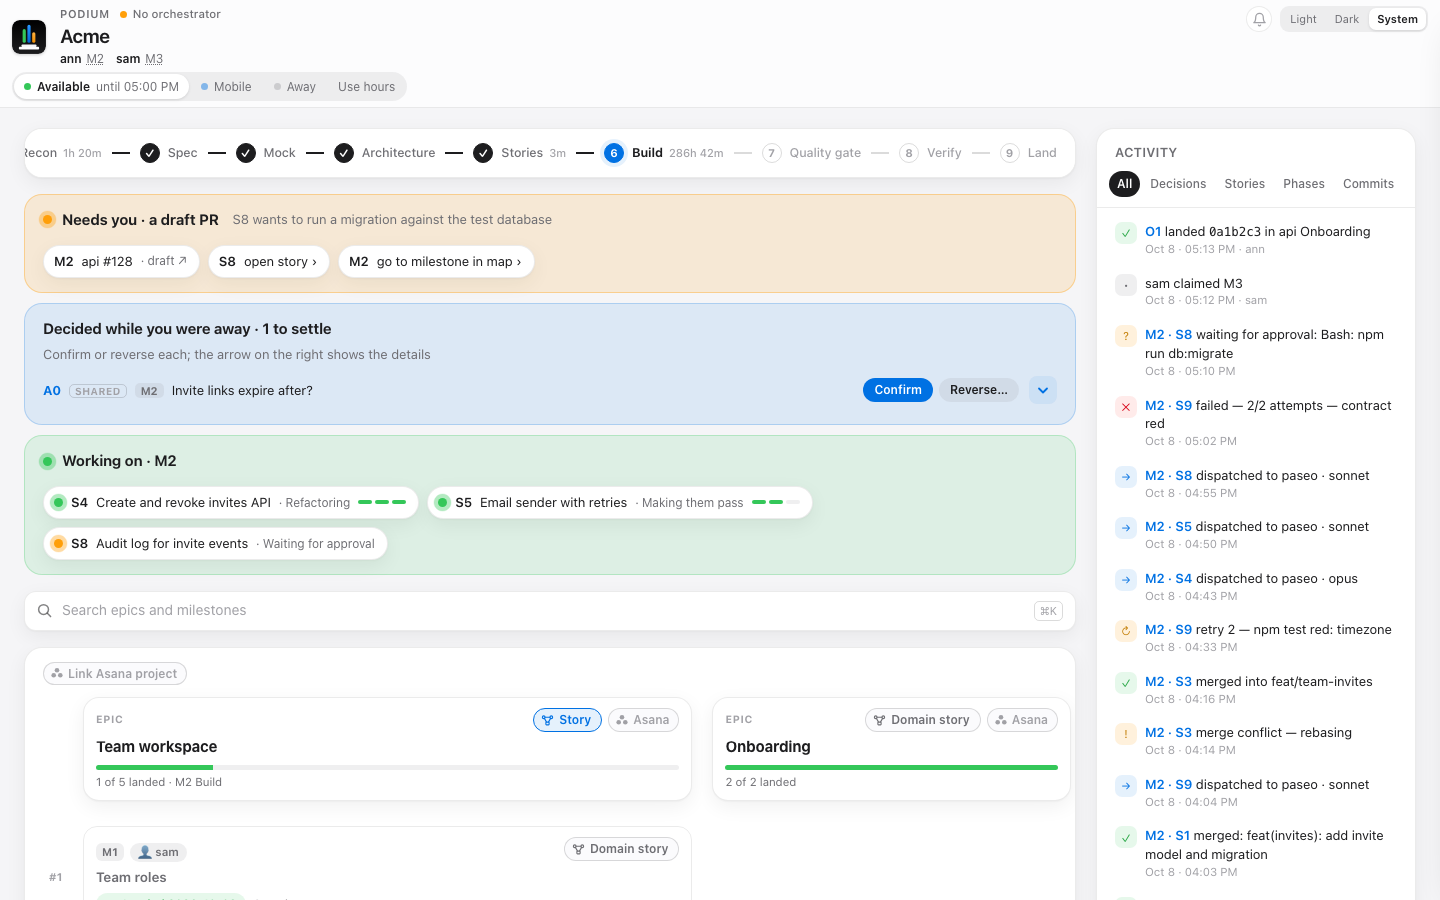
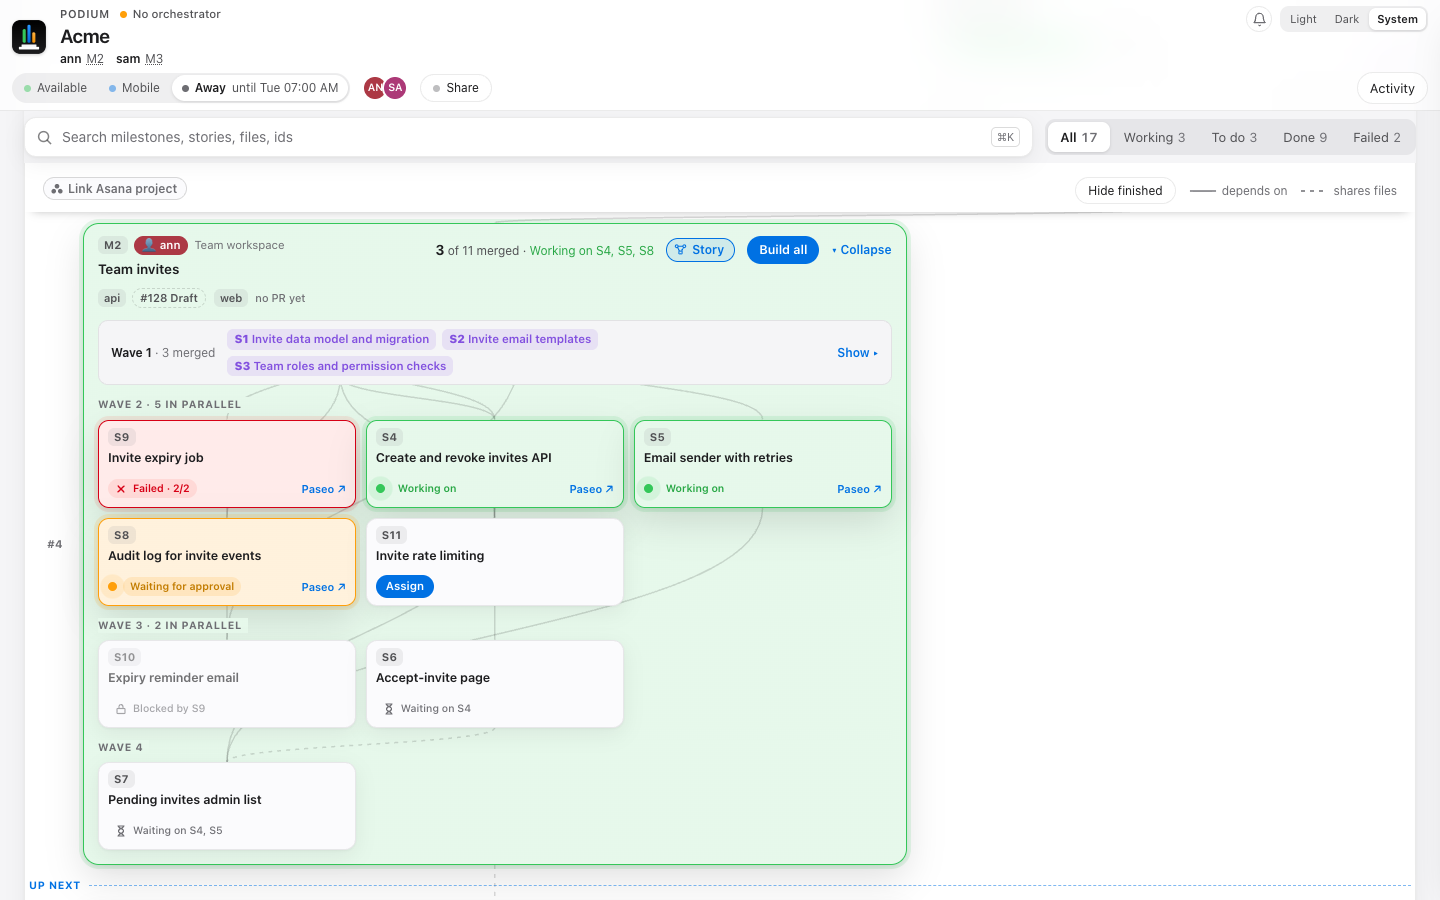
podium page: an open milestone draws its stories as a tree, with lines behind the cards and merged waves folded
Leading waves that are all merged fold into one line of chips; Show unfolds them in place. Dependency lines are solid, shared-file lines dashed, and lines from a folded story start at its chip.

diff --git a/podium_dashboard/podium.html b/podium_dashboard/podium.html
@@ -322,6 +322,25 @@ a.wchip { color: inherit; text-decoration: none; }
 .mwave { display: flex; flex-direction: column; gap: 7px; }
 .mwl { font-size: 10.5px; font-weight: 700; letter-spacing: .06em; text-transform: uppercase; color: var(--text-3); }
 .mrow { display: grid; grid-template-columns: repeat(3, minmax(0, 1fr)); gap: 10px; }
+.mtree { position: relative; display: flex; flex-direction: column; gap: 12px; background: inherit; }
+.mtree > svg.links { position: absolute; inset: 0; z-index: 0; pointer-events: none; overflow: visible; }
+.mtree .mwave { background: inherit; }
+.mtree .mwl { position: relative; z-index: 1; align-self: flex-start; padding-right: 6px; background: inherit; }
+.mtree .node { z-index: 1; }
+.mtree .node.dim, .mtree .node.blocked, .mtree .node.dropped { opacity: 1; }
+.mtree .node.blocked > * { opacity: .62; }
+.mtree .node.dropped > * { opacity: .45; }
+.mtree .node.dim { background: var(--card-2); border-color: var(--line); box-shadow: none; }
+.mtree .node.dim > * { opacity: .28; }
+.mtree.focus .edge:not(.hi) { opacity: .35; }
+.mfold { position: relative; z-index: 1; display: flex; align-items: center; gap: 8px 12px; flex-wrap: wrap; padding: 8px 12px; border: 1px solid var(--line); border-radius: 10px; background: var(--bg); }
+.mfl { font-size: 12px; color: var(--text-3); }
+.mfl b { color: var(--text); font-weight: 650; }
+.fchips { display: flex; flex-wrap: wrap; gap: 6px; flex: 1 1 0; min-width: 0; }
+.fchip { max-width: 100%; overflow: hidden; text-overflow: ellipsis; white-space: nowrap; padding: 2px 7px; border-radius: 6px; background: var(--purple-soft); color: var(--purple); font-size: 11.5px; font-weight: 600; cursor: pointer; }
+.fchip.sel { box-shadow: 0 0 0 2px var(--accent); }
+.fchip.dim { opacity: .28; }
+.mrefold { display: flex; justify-content: flex-end; }
 .node.compact { position: relative; min-height: 88px; padding: 7px 9px; gap: 4px; border-radius: 11px; }
 .node.compact .title { font-size: 12.5px; }
 .node.compact .foot { min-height: 22px; gap: 4px 6px; font-size: 11px; flex-wrap: wrap; }
@@ -750,7 +769,7 @@ let lastPoll = 0;
 
 /* a map keyed by the run's strings: no prototype, so an id like `constructor` or `__proto__` finds nothing it didn't put there */
 const dict = (entries = []) => Object.setPrototypeOf(Object.fromEntries(entries), null);
-const S = { base: "podium/", handoffs: dict(), human: null, info: null, project: null, epic: null, raw: "", events: [], eventsRaw: "", progress: dict(), briefs: dict(), sel: null, doc: null, back: [], open: undefined, query: "", filter: "all", online: true };
+const S = { base: "podium/", handoffs: dict(), human: null, info: null, project: null, epic: null, raw: "", events: [], eventsRaw: "", progress: dict(), briefs: dict(), sel: null, doc: null, back: [], open: undefined, unfold: dict(), query: "", filter: "all", online: true };
 const $ = (id) => document.getElementById(id);
 function setTheme(t) {
   if (t === "system") document.documentElement.removeAttribute("data-theme");
@@ -1128,9 +1147,58 @@ function openHead(m) {
   return `<div class="ohead"><span class="fid"><span class="fidrow"><span class="sid">${esc(m.id)}</span>${infraTag(m)}${ownerOrClaim(m)}<span class="oepic">${esc(E?.title || "")}</span></span><span class="title otitle" data-open="${esc(m.id)}" tabindex="0">${esc(m.title)}</span>${msCardRepos(m)}</span><span class="oside">${stat}<span class="ftools">${mockBtn(m)}${dsBtn(m)}${asanaBtn(m, true)}</span>${build}<button class="ocollapse" data-collapse>▾ Collapse</button></span></div>`;
 }
 const hidesStory = (m, s) => S.hideFinished && ["done", "dropped"].includes(s.status) && !isSel(m.id, s.id) && !(S.project.needsYou && needsMs() === m.id && String(S.project.needsYou.story || "").split("/").pop() === String(s.id));
+function treeRows(m) {
+  const rows = wavesOf(m.stories || []), col = dict();
+  rows.forEach((row, i) => {
+    if (i) {
+      const bary = (s) => {
+        const ups = [...(s.deps || []), ...(s.overlapAfter || [])].filter((d) => col[d] !== undefined);
+        return ups.length ? ups.reduce((a, d) => a + col[d], 0) / ups.length : 0;
+      };
+      row.sort((a, b) => bary(a) - bary(b) || String(a.id).localeCompare(String(b.id), undefined, { numeric: true }));
+    }
+    row.forEach((s, j) => (col[s.id] = j % 3));
+  });
+  return rows;
+}
+const foldWaves = (rows) => ((n) => (n < 0 ? rows.length : n))(rows.findIndex(([, w]) => w.some((s) => s.status !== "done")));
+function treeView(m) {
+  const rows = treeRows(m).map((w, i) => [i, w.filter((s) => !hidesStory(m, s))]).filter(([, w]) => w.length);
+  const n = S.hideFinished ? 0 : foldWaves(rows), folded = n > 0 && !S.unfold[m.id];
+  return { rows, n, folded, shown: dict(rows.flatMap(([, w], k) => w.map((s) => [s.id, folded && k < n]))) };
+}
+function treeEdges(m, shown) {
+  const seen = new Set(), out = [];
+  for (const s of m.stories || []) {
+    if (!Object.hasOwn(shown, s.id)) continue;
+    const link = (ids, kind) => (Array.isArray(ids) ? ids : []).forEach((d) => {
+      const k = JSON.stringify([d, s.id]);
+      if (d === s.id || !Object.hasOwn(shown, d) || (shown[d] && shown[s.id]) || seen.has(k)) return;
+      seen.add(k);
+      out.push({ from: d, to: s.id, kind, fromFold: shown[d] });
+    });
+    link(s.deps, "dep");
+    link(s.overlapAfter, "overlap");
+  }
+  return out;
+}
+function msTree(m, map) {
+  const { rows, n, folded } = treeView(m), id = esc(m.id), merged = rows.slice(0, n).flatMap(([, w]) => w);
+  const wave = ([i, w]) => `<div class="mwave"><span class="mwl">Wave ${i + 1}${w.length > 1 ? ` · ${w.length} in parallel` : ""}</span><div class="mrow">${w.map((s) => storyCard(m, s, map)).join("")}</div></div>`;
+  const chip = (s) => `<span class="fchip${isSel(m.id, s.id) ? " sel" : ""}" data-open="${id}" data-story="${esc(s.id)}" tabindex="0"><b>${esc(s.id)}</b> ${esc(s.title)}</span>`;
+  const fold = !n ? "" : folded
+    ? `<div class="mfold"><span class="mfl"><b>${n > 1 ? `Waves 1–${n}` : "Wave 1"}</b> · ${merged.length} merged</span><span class="fchips">${merged.map(chip).join("")}</span><button class="ocollapse" data-unfold="${id}">Show ▸</button></div>`
+    : `<div class="mrefold"><button class="ocollapse" data-unfold="${id}">Fold merged waves ▴</button></div>`;
+  return `<div class="mtree" data-ms="${id}">${fold}${(folded ? rows.slice(n) : rows).map(wave).join("")}</div>`;
+}
+function toggleFold(id) {
+  if (S.unfold[id]) delete S.unfold[id];
+  else S.unfold[id] = true;
+  render();
+}
 function msBody(m, foot) {
   const stories = m.stories || [], arts = m.artifacts || [], map = storyIndex(m);
-  if (stories.length) return wavesOf(stories).map((w, i) => [i, w.filter((s) => !hidesStory(m, s))]).filter(([, w]) => w.length).map(([i, w]) => `<div class="mwave"><span class="mwl">Wave ${i + 1}${w.length > 1 ? ` · ${w.length} in parallel` : ""}</span><div class="mrow">${w.map((s) => storyCard(m, s, map)).join("")}</div></div>`).join("");
+  if (stories.length) return msTree(m, map);
   if (arts.length) return `<div class="mrow">${arts.map((a, i) => `<div class="node compact artifact" data-open="${esc(m.id)}" data-story="A${i + 1}" tabindex="0"><div class="top"><span class="sid">${esc(a.phase || "doc")}</span></div><span class="title">${esc(a.name)}</span></div>`).join("")}</div>`;
   return `<div class="foot">${foot}${waitPills(m)}</div>`;
 }
@@ -1185,9 +1253,10 @@ function renderFull() {
   const rows = order.map((x, i) => hides(x) ? "" : `${i === next && i > 0 ? `<div class="fnext">Up next</div>` : ""}<div class="ford">#${i + 1}</div>${P.epics.map((E, c) => (c === lane[x.id] ? fullMs(x, all) : "<div></div>")).join("")}`).join("");
   const min = 34 + P.epics.reduce((n, E) => n + (E.id === P.active?.epic ? 300 : 200) + 20, 0);
   m.innerHTML = `<div class="full" style="grid-template-columns:${cols};min-width:${min}px">${head}${drow}${rrow}${rows}</div>`;
-  requestAnimationFrame(drawQueue);
+  requestAnimationFrame(drawLines);
   applyFilter();
 }
+function drawLines() { drawQueue(); drawTree(); }
 function drawQueue() {
   const g = document.querySelector("#map .full");
   if (!g) return;
@@ -1197,6 +1266,18 @@ function drawQueue() {
   const paths = cards.slice(1).map((c, i) => `<path class="edge ${c.matches(".done, .working, .waits") ? "" : "overlap"}" d="${curve(box(cards[i]), box(c))}"/>`).join("");
   g.querySelector("svg.edges")?.remove();
   g.insertAdjacentHTML("afterbegin", `<svg class="edges" width="${g.scrollWidth}" height="${g.scrollHeight}">${paths}</svg>`);
+}
+function drawTree() {
+  const t = document.querySelector("#map .mtree"), m = t && msOf(t.dataset.ms);
+  if (!m) return;
+  const tr = t.getBoundingClientRect(), at = dict([...t.querySelectorAll("[data-story]")].map((el) => [el.dataset.story, el]));
+  const box = (el) => { const r = el.getBoundingClientRect(); return { x: r.left - tr.left, y: r.top - tr.top, w: r.width, h: r.height }; };
+  const hi = (e) => isSel(m.id, e.from) || isSel(m.id, e.to);
+  const edges = treeEdges(m, treeView(m).shown).filter((e) => at[e.from] && at[e.to]);
+  const paths = edges.map((e) => `<path class="edge${e.kind === "overlap" ? " overlap" : ""}${hi(e) ? " hi" : ""}" d="${curve(box(at[e.from]), box(at[e.to]))}"/>`).join("");
+  t.classList.toggle("focus", edges.some(hi));
+  t.querySelector("svg.links")?.remove();
+  t.insertAdjacentHTML("afterbegin", `<svg class="links" width="${t.scrollWidth}" height="${t.scrollHeight}">${paths}</svg>`);
 }
 
 function day(v) {
@@ -2395,6 +2476,8 @@ document.addEventListener("click", (ev) => {
   const rv = ev.target.closest("[data-reveal]");
   if (rv) { reveal(rv.dataset.reveal); return; }
   if (ev.target.closest("[data-collapse]")) { collapse(); return; }
+  const uf = ev.target.closest("[data-unfold]");
+  if (uf) { toggleFold(uf.dataset.unfold); return; }
   const xm = ev.target.closest("[data-expand-ms]");
   if (xm) { expand(xm.dataset.expandMs); return; }
   if (ev.target.closest("[data-back]")) return sheetBack();
@@ -2409,7 +2492,7 @@ document.addEventListener("click", (ev) => {
 document.addEventListener("keydown", (ev) => {
   if ((ev.metaKey || ev.ctrlKey) && ev.key.toLowerCase() === "k") { ev.preventDefault(); $("q").focus(); $("q").select(); }
   else if (ev.key === "Escape") onEscape();
-  else if (ev.key === "Enter" && ev.target.matches(".node, .fms, .otitle, .fepic, .quest")) ev.target.click();
+  else if (ev.key === "Enter" && ev.target.matches(".node, .fchip, .fms, .otitle, .fepic, .quest")) ev.target.click();
 });
 function onEscape() {
   if (S.sel) closeSheet();
@@ -2479,7 +2562,7 @@ function trackStickyBar() {
   }
 }
 trackStickyBar();
-window.addEventListener("resize", () => { if (S.project) drawQueue(); });
+window.addEventListener("resize", () => { if (S.project) drawLines(); });
 $("quality").addEventListener("toggle", () => (S.qualityTouched = true), { once: true });
 
 setFavicon("");

diff --git a/tests/test_page.py b/tests/test_page.py
@@ -110,6 +110,20 @@ FINISHED_RUN = {
         {"id": "M2", "title": "second", "status": "working", "phase": "build", "deps": ["M1"],
          "stories": [{"id": "S1", "title": "a", "status": "done"}, {"id": "S2", "title": "b", "status": "done", "deps": ["S1"]},
                      {"id": "S3", "title": "c", "status": "todo", "deps": ["S2"]}]}]}]}
+TREE_RUN = {
+    "project": {"title": "T", "quest": {"doc": "q.md"}}, "orchestrator": {"name": "o", "command": "/o"}, "active": {"epic": "e1", "milestone": "M1"},
+    "epics": [{"id": "e1", "title": "E", "milestones": [
+        {"id": "M1", "title": "tree", "status": "working", "phase": "build", "stories": [
+            {"id": "S1", "title": "a", "status": "done"}, {"id": "S2", "title": "b", "status": "todo"},
+            {"id": "S3", "title": "c", "status": "todo", "deps": ["S2", "S2"]},
+            {"id": "S4", "title": "d", "status": "todo", "deps": ["S1"], "overlapAfter": ["S3"]},
+            {"id": "S5", "title": "e", "status": "todo", "deps": ["S6", "S9"]}, {"id": "S6", "title": "f", "status": "todo", "deps": ["S5"]},
+            {"id": "__proto__", "title": "p", "status": "todo", "deps": ["constructor", "S2", "__proto__"], "overlapAfter": ["S2"]}]},
+        {"id": "M2", "title": "order", "status": "todo", "stories": [
+            {"id": "A1", "title": "a", "status": "todo"}, {"id": "A2", "title": "b", "status": "todo"}, {"id": "A3", "title": "c", "status": "todo"},
+            {"id": "B1", "title": "d", "status": "todo", "deps": ["A3"]}, {"id": "B2", "title": "e", "status": "todo", "deps": ["A1"]},
+            {"id": "B3", "title": "f", "status": "todo", "deps": ["A2"]},
+            {"id": "C1", "title": "g", "status": "todo", "deps": ["B1"]}, {"id": "C2", "title": "h", "status": "todo", "deps": ["B2"]}]}]}]}
 TWIN_RUN = {
     "project": {"title": "T", "quest": {"doc": "q.md"}}, "orchestrator": {"name": "o", "command": "/o"}, "active": {"epic": "e1", "milestone": "M1"},
     "epics": [{"id": "e1", "title": "E", "milestones": [
@@ -902,6 +916,82 @@ class HostileRun(unittest.TestCase):
         self.assertRegex(open(PAGE).read(), r"\.mrow \{[^}]*grid-template-columns: repeat\(3, minmax\(0, 1fr\)\)")
         sheet = next(h for h in self.html if "<dt>Model</dt>" in h and "opus-model" in h)
         self.assertIn('<dt>Step</dt><dd class="doing">Making them pass', sheet)
+
+    @staticmethod
+    def tree_text(card):
+        """The open card's wave labels, fold line, chips and fold controls as text, and the story ids shown as cards and as chips."""
+        parts = re.findall(r'<span class="(?:mwl|mfl)">(.*?)</span>|<span class="fchip[^"]*"[^>]*>(.*?)</span>|<button class="ocollapse" data-unfold[^>]*>([^<]*)</button>', card)
+        lines = [re.sub(r"<[^>]+>", "", "".join(p)) for p in parts]
+        cards = re.findall(r'<div class="node compact [^"]*" data-open="M2" data-story="([^"]*)"', card)
+        chips = re.findall(r'<span class="fchip[^"]*" data-open="M2" data-story="([^"]*)"', card)
+        return lines, cards, chips
+
+    def test_merged_leading_waves_fold_into_one_line_of_chips_and_the_wave_count_goes_on(self):
+        maps, _ = self.maps(FINISHED_RUN)
+        lines, cards, chips = self.tree_text(self.open_card(maps[0]))
+        self.assertEqual(lines, ["Waves 1–2 · 2 merged", "S1 a", "S2 b", "Show ▸", "Wave 3"])
+        self.assertEqual(cards, ["S3"])
+        self.assertEqual(chips, ["S1", "S2"])
+        self.assertIn('<button class="ocollapse" data-unfold="M2">Show ▸</button>', self.open_card(maps[0]))
+
+    def test_show_unfolds_the_merged_waves_as_cards_in_place_and_fold_merged_waves_folds_them_back(self):
+        maps, _ = self.maps(FINISHED_RUN, probe='(() => { expand("M2"); const out = [S.unfold.M2 === true]; toggleFold("M2"); out.push(S.unfold.M2 === true); return out; })()')
+        self.assertEqual(self.probe(), [False, True])
+        lines, cards, chips = self.tree_text(self.open_card(maps[-1]))
+        self.assertEqual(lines, ["Fold merged waves ▴", "Wave 1", "Wave 2", "Wave 3"])
+        self.assertEqual((cards, chips), (["S1", "S2", "S3"], []))
+        maps, _ = self.maps(FINISHED_RUN, probe='(expand("M2"), toggleFold("M2"), toggleFold("M2"), Object.keys(S.unfold))')
+        self.assertEqual(self.probe(), [])
+        self.assertEqual(self.tree_text(self.open_card(maps[-1]))[2], ["S1", "S2"])
+
+    def test_a_fold_chip_opens_its_story_sheet(self):
+        maps, _ = self.maps(FINISHED_RUN, probe='(openSheet({ ms: "M2", story: "S1" }), S.sel)')
+        self.assertEqual(self.probe(), {"ms": "M2", "story": "S1"})
+        self.assertRegex(self.open_card(maps[-1]), r'<span class="fchip sel" data-open="M2" data-story="S1" tabindex="0"><b>S1</b> a</span>')
+        self.assertIn(".fchip", re.search(r'ev\.target\.matches\("([^"]*)"\)\) ev\.target\.click', open(PAGE).read()).group(1))
+
+    def test_with_hide_finished_on_merged_waves_are_hidden_with_no_fold_line(self):
+        maps, _ = self.maps(FINISHED_RUN, localStorage={"podium-hide-finished": "1"})
+        self.assertEqual(self.tree_text(self.open_card(maps[0])), (["Wave 3"], ["S3"], []))
+        self.assertNotIn("Fold merged waves", self.open_card(maps[0]))
+
+    def test_cards_in_a_wave_sit_under_the_stories_they_depend_on(self):
+        self.maps(TREE_RUN, probe='treeRows(msOf("M2")).map((w) => w.map((s) => s.id))')
+        self.assertEqual(self.probe(), [["A1", "A2", "A3"], ["B2", "B3", "B1"], ["C2", "C1"]])
+
+    def tree_edges(self, run, ms, stored=None, before=""):
+        self.maps(run, localStorage=stored or {}, probe=f'(() => {{ {before} const m = msOf("{ms}"); return treeEdges(m, treeView(m).shown); }})()')
+        return sorted((e["from"], e["to"], e["kind"], e["fromFold"]) for e in self.probe())
+
+    def test_tree_lines_start_at_a_folded_storys_chip_and_skip_edges_between_two_folded_stories(self):
+        self.assertEqual(self.tree_edges(FINISHED_RUN, "M2"), [("S2", "S3", "dep", True)])
+        self.assertEqual(self.tree_edges(FINISHED_RUN, "M2", before='toggleFold("M2");'), [("S1", "S2", "dep", False), ("S2", "S3", "dep", False)])
+
+    def test_tree_lines_are_solid_for_deps_and_dashed_for_shared_files_and_skip_missing_and_self_edges(self):
+        self.assertEqual(self.tree_edges(TREE_RUN, "M1"), [
+            ("S1", "S4", "dep", False), ("S2", "S3", "dep", False), ("S2", "__proto__", "dep", False),
+            ("S3", "S4", "overlap", False), ("S5", "S6", "dep", False), ("S6", "S5", "dep", False)])
+
+    def test_tree_lines_into_stories_hide_finished_hides_are_dropped(self):
+        edges = self.tree_edges(TREE_RUN, "M1", {"podium-hide-finished": "1"})
+        self.assertNotIn("S1", [e[0] for e in edges])
+        self.assertIn(("S3", "S4", "overlap", False), edges)
+
+    def test_tree_lines_survive_cycles_and_prototype_named_stories(self):
+        for run, edges in ((CYCLIC_RUN, 4), (PROTO_RUN, 6)):
+            self.maps(run, probe='(() => { const m = msOf("M1"); return [treeRows(m).flat().length, treeEdges(m, treeView(m).shown).length]; })()')
+            self.assertEqual(self.probe(), [4, edges])
+
+    def test_the_tree_draws_its_lines_behind_opaque_cards_without_removing_the_queue_lines(self):
+        page = open(PAGE).read()
+        self.assertIn('t.insertAdjacentHTML("afterbegin", `<svg class="links"', page)
+        self.assertIn('t.querySelector("svg.links")?.remove()', page)
+        self.assertRegex(page, r"\.mtree \{[^}]*position: relative")
+        self.assertRegex(page, r"\.mtree > svg\.links \{[^}]*z-index: 0")
+        self.assertRegex(page, r"\.mtree \.node\.dim[^{]*\{ opacity: 1; \}")
+        self.assertIn("function drawLines() { drawQueue(); drawTree(); }", page)
+        self.assertIn("requestAnimationFrame(drawLines)", page)
+        self.assertIn('window.addEventListener("resize", () => { if (S.project) drawLines(); });', page)
 
     def test_a_milestone_card_without_known_repos_has_no_chip_row(self):
         cards = self.card_repos([{"id": "M1", "title": "a", "status": "parked"},
